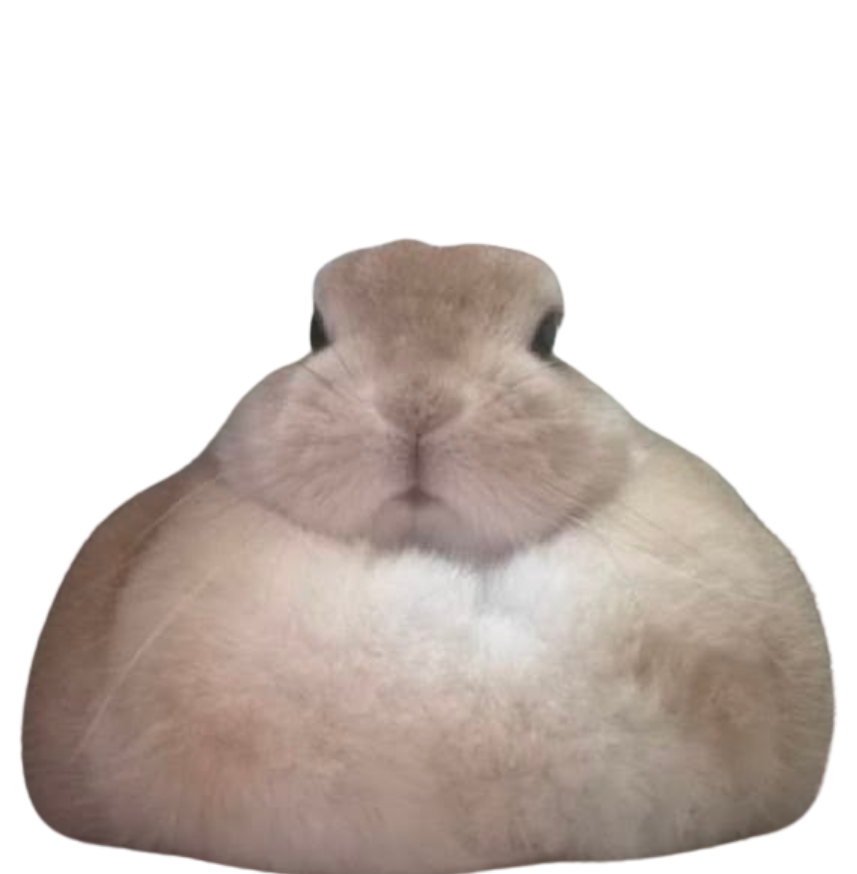
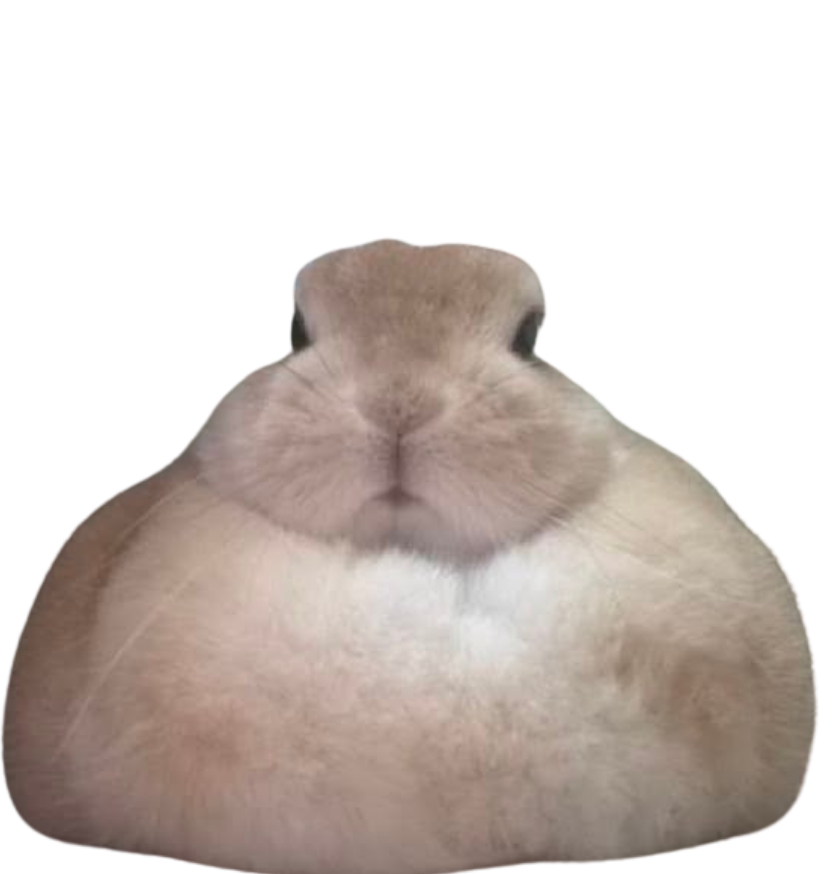
fix bunny

diff --git a/index.html b/index.html
@@ -25,9 +25,9 @@
 
     <img src="images/hydrangeas-border.png" class="hydrangea-right" alt="">
 
-    <img src="images/lotv.jpg" class="lily-left" alt="">
+    <img src="images/lotv.png" class="lily-left" alt="">
 
-    <img src="images/lotv.jpg" class="lily-right" alt="">
+    <img src="images/lotv.png" class="lily-right" alt="">
     
     <h2 class="logo">my bunny.</h2>
 

diff --git a/style.css b/style.css
@@ -68,7 +68,7 @@ body {
 
     left: 50%;
 
-    top: -45px;
+    top: -65px;
 
     transform: translateX(-50%);
 